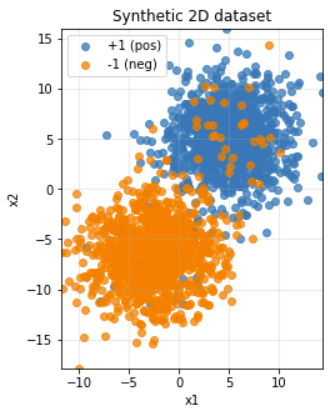
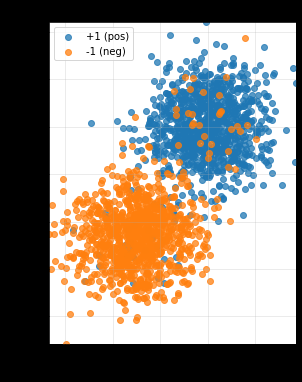
1117_1

diff --git a/_posts/AI/2025-11-15-PerceptronCode.md b/_posts/AI/2025-11-15-PerceptronCode.md
@@ -142,7 +142,7 @@ plt.show()
 
 **What this visualization shows:**
 
-![](../../assets/images/2025-11-16-20-26-41.png)
+![](../../assets/images/synthetic_dataset.jpg)
 
 We convert PyTorch tensors to NumPy arrays with `.numpy()` because matplotlib requires NumPy format. The expression `X_np[y_np == 1, 0]` is fancy indexing that selects all x-coordinates where the label equals +1, and `X_np[y_np == 1, 1]` gets the corresponding y-coordinates. The `alpha=0.75` parameter makes points slightly transparent so we can see overlapping regions. We extract axis ranges using `X_np[:, 0].min()` which takes all rows (`:`) of column 0 (the x-coordinates) and finds the minimum value. Setting `plt.gca().set_aspect('equal')` ensures the x and y axes have the same scale, preventing distortion.
 
@@ -305,7 +305,7 @@ plt.show()
 
 **Plotting the Decision Boundary:**
 
-![](../../assets/images/2025-11-16-20-27-34.png)
+![](../../assets/images/perceptron.jpg)
 
 The decision boundary is where $\mathbf{w} \cdot \mathbf{x} + b = 0$. Solving for $x_2$ gives us: $x_2 = -\frac{w_0}{w_1} x_1 - \frac{b}{w_1}$. This is the equation of a line in slope-intercept form.
 
